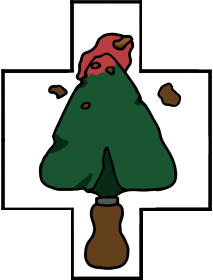
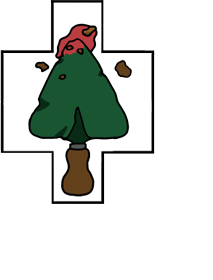
Implemented Puzzle 2, end Screen

diff --git a/src/scenes/puzzle2.js b/src/scenes/puzzle2.js
@@ -1,18 +1,19 @@
-class Puzzle1 extends Phaser.Scene
+class Puzzle2 extends Phaser.Scene
 {
     constructor()
     {
-        super("Puzzle1");
+        super("Puzzle2");
     }
 
     preload ()
     {
         this.load.image('box', './assets/Cardboard_Box_Puzzle_Grid.png');
-        this.load.image('book', './assets/puzzleBook.png');
-        this.load.image('flour', './assets/puzzleFlour.png');
-        this.load.image('pillow', './assets/puzzlePillow.png');
-        this.load.image('shirt', './assets/puzzleShirt.png');
-        this.load.image('bulb', './assets/puzzleLightbulb.png');
+        this.load.image('shovel', './assets/puzzleshovel.png');
+        this.load.image('bottle', './assets/puzzlebottle.png');
+        this.load.image('brokenshovel', './assets/puzzlebrokenshovel.png');
+        this.load.image('watercan', './assets/puzzlewateringcan.png');
+        this.load.image('board', './assets/puzzleboard.png');
+        this.load.image('BLOCKED', './assets/puzzleblockedsquares.png');
         this.load.audio('sfx_correctspot', './assets/correct.wav');
     }
 
@@ -25,17 +26,19 @@ class Puzzle1 extends Phaser.Scene
         this.add.image(200,50, 'box').setOrigin(0,0);
 
         //  The blocks we can drag
-        const block1 = this.add.sprite(64, 192, 'book').setOrigin(0, 0);
-        const block2 = this.add.sprite(64, 320, 'pillow').setOrigin(0, 0);
-        const block3 = this.add.sprite(64, 448, 'flour').setOrigin(0, 0);
-        const block4 = this.add.sprite(64,576, 'shirt').setOrigin(0,0);
-        const block5 = this.add.sprite(200, 70, 'bulb').setOrigin(0,0);
+        const blocked = this.add.sprite(530, 380, 'BLOCKED').setOrigin(0,0);
+        const block1 = this.add.sprite(64, 192, 'shovel').setOrigin(0, 0);
+        const block2 = this.add.sprite(64, 320, 'bottle').setOrigin(0, 0);
+        const block3 = this.add.sprite(64, 448, 'brokenshovel').setOrigin(0, 0);
+        const block4 = this.add.sprite(64,576, 'watercan').setOrigin(0,0);
+        const block5 = this.add.sprite(200, 70, 'board').setOrigin(0,0);
 
         block1.setInteractive({ draggable: true });
         block2.setInteractive({ draggable: true });
         block3.setInteractive({ draggable: true });
         block4.setInteractive({ draggable: true });
         block5.setInteractive({ draggable: true});
+
         let scoreConfig = {fontFamily: 'Courier', 
             fontSize: '18px', 
             backgroundColor: '#F3B141', 
@@ -63,14 +66,14 @@ class Puzzle1 extends Phaser.Scene
             const x = gameObject.x;
             const y = gameObject.y;
             //for debugging purposes
-            //console.log(`X: ${gameObject.x}\nY: ${gameObject.y}\nMoves Left: ${gameMoves}\nPieces locked in place:\nBook: ${over1}\nPillow: ${over2}\nFlour: ${over3}\nShirt: ${over4}\nBulb: ${over5}`);
-            if (x === 580 && y === 480 && !over1 && gameObject == block1)
+            console.log(`X: ${gameObject.x}\nY: ${gameObject.y}\nMoves Left: ${gameMoves}\nPieces locked in place:\nBook: ${over1}\nPillow: ${over2}\nFlour: ${over3}\nShirt: ${over4}\nBulb: ${over5}`);
+            if (x === 480 && y === 230 && !over1 && gameObject == block1)
             {
                 over1 = true;
                 this.sound.play('sfx_correctspot');
                 gameObject.disableInteractive();
             }
-            else if (x === 380 && y === 430 && !over2 && gameObject == block2)
+            else if (x === 380 && y === 230 && !over2 && gameObject == block2)
             {
                 over2 = true;
                 gameObject.disableInteractive();
@@ -82,12 +85,12 @@ class Puzzle1 extends Phaser.Scene
                 gameObject.disableInteractive();
                 this.sound.play('sfx_correctspot');
             }
-            else if(x === 380 && y === 230 && !over4 && gameObject == block4){
+            else if(x === 380 && y === 430 && !over4 && gameObject == block4){
                 over4 = true;
                 gameObject.disableInteractive();
                 this.sound.play('sfx_correctspot');
             }
-            else if(x === 530 && y === 380 && !over5 && gameObject == block5){
+            else if(x === 680 && y === 280 && !over5 && gameObject == block5){
                 over5 = true;
                 gameObject.disableInteractive();
                 this.sound.play('sfx_correctspot');
@@ -106,7 +109,7 @@ class Puzzle1 extends Phaser.Scene
             over3 = false;
             over4 = false;
             over5 = false;
-            this.scene.start('Puzzle2')
+            this.scene.start('endGame')
         }
         else if(gameMoves <= 0 && !gameWin){
             over1 = false;

diff --git a/src/scenes/endGame.js b/src/scenes/endGame.js
@@ -1,0 +1,27 @@
+class endGame extends Phaser.Scene{
+    constructor(){
+        super('endGame');
+    }
+    create(){
+        //menu text configuration
+        let menuConfig = {
+            fontFamily: 'Courier', 
+            fontSize: '28px', 
+            backgroundColor: '#F3B141', 
+            color: '#843605', 
+            align: 'right', 
+            padding: {top: 5, bottom: 5,}, 
+            fixedWidth: 0
+            
+        }
+        //show menu text
+        this.add.text(game.config.width/2, game.config.height/2 - borderUISize - 
+        borderPadding, "YOU WIN\nThanks for Playing!", menuConfig).setOrigin(0.5);
+        this.restart = this.time.delayedCall(5000, ()=> {
+            this.scene.start('Start');
+        })
+    }
+    update(){
+
+    }
+}

diff --git a/index.html b/index.html
@@ -15,6 +15,8 @@
     <script src = "./lib/phaser.js"></script>
     <script src = "./src/scenes/Start.js"></script>
     <script src = "./src/scenes/puzzle1.js"></script>
+    <script src = "./src/scenes/puzzle2.js"></script>
+    <script src = "./src/scenes/endGame.js"></script>
     <script src = "./src/main.js"></script>
 </body>
 </html>

diff --git a/src/main.js b/src/main.js
@@ -3,7 +3,7 @@ const config = {
     width: 1000,
     height: 800,
     backgroundColor: 'rgba(100,100,0,0)',
-    scene: [Start, Puzzle1]
+    scene: [Start, Puzzle1, Puzzle2, endGame]
 }
 
 const game = new Phaser.Game(config);
